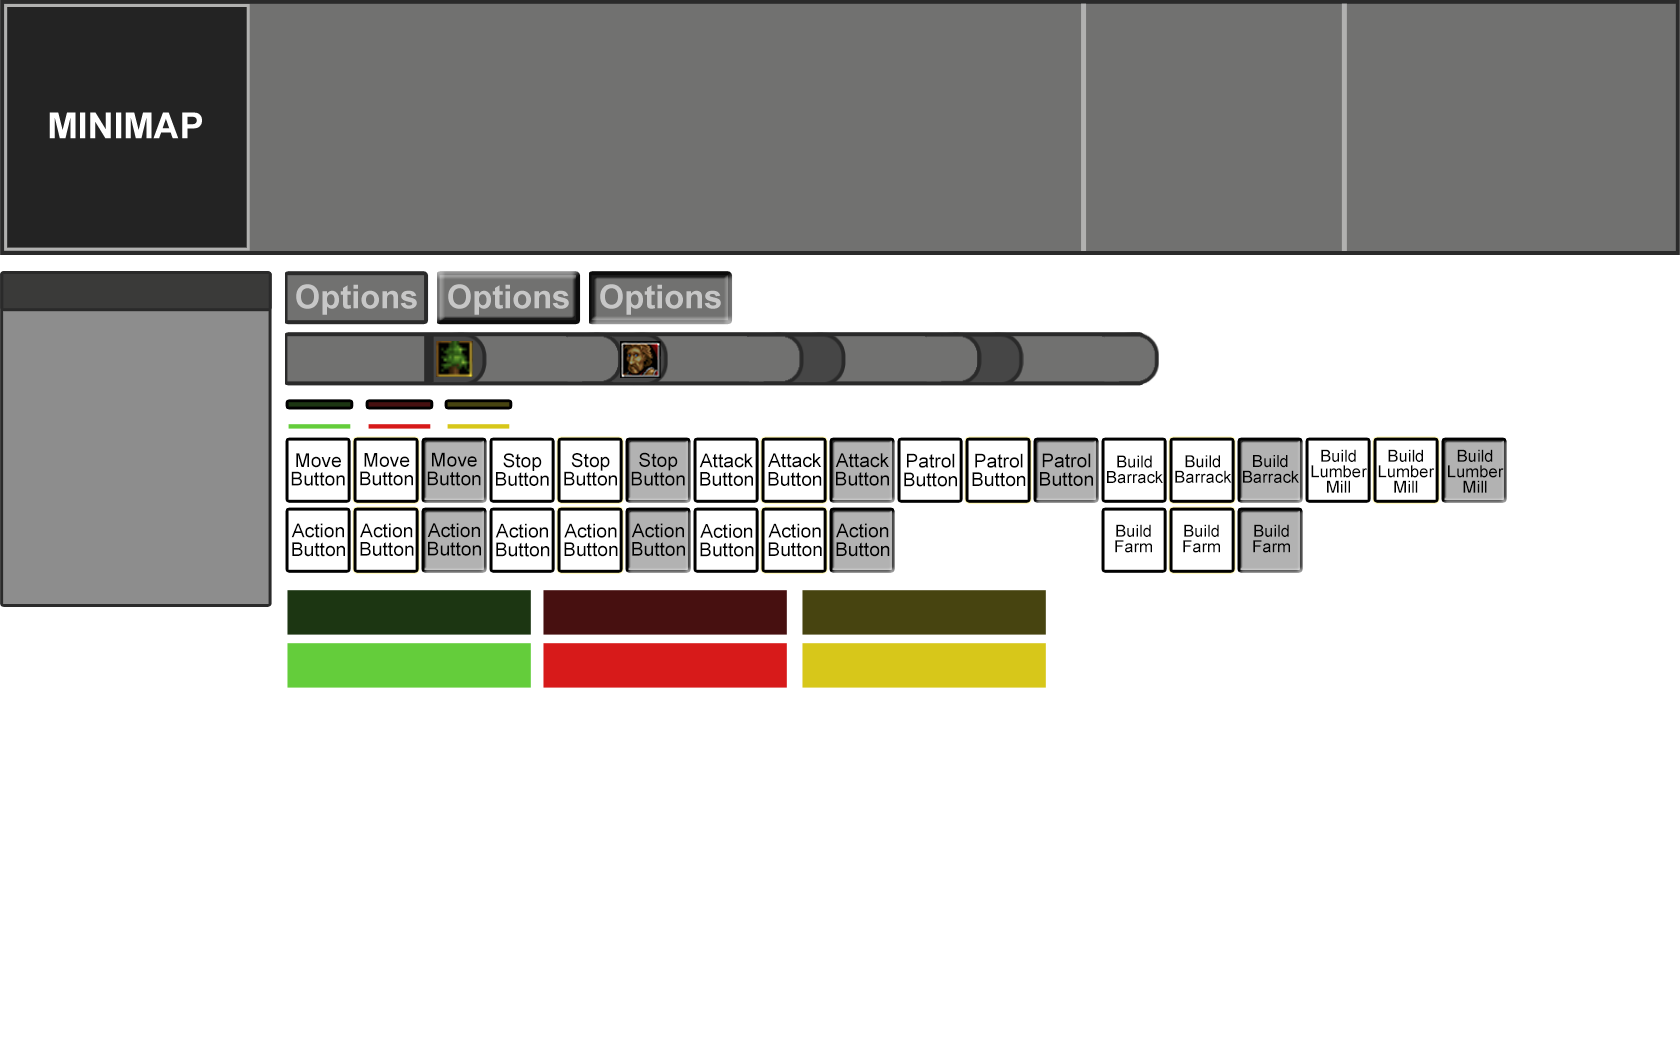
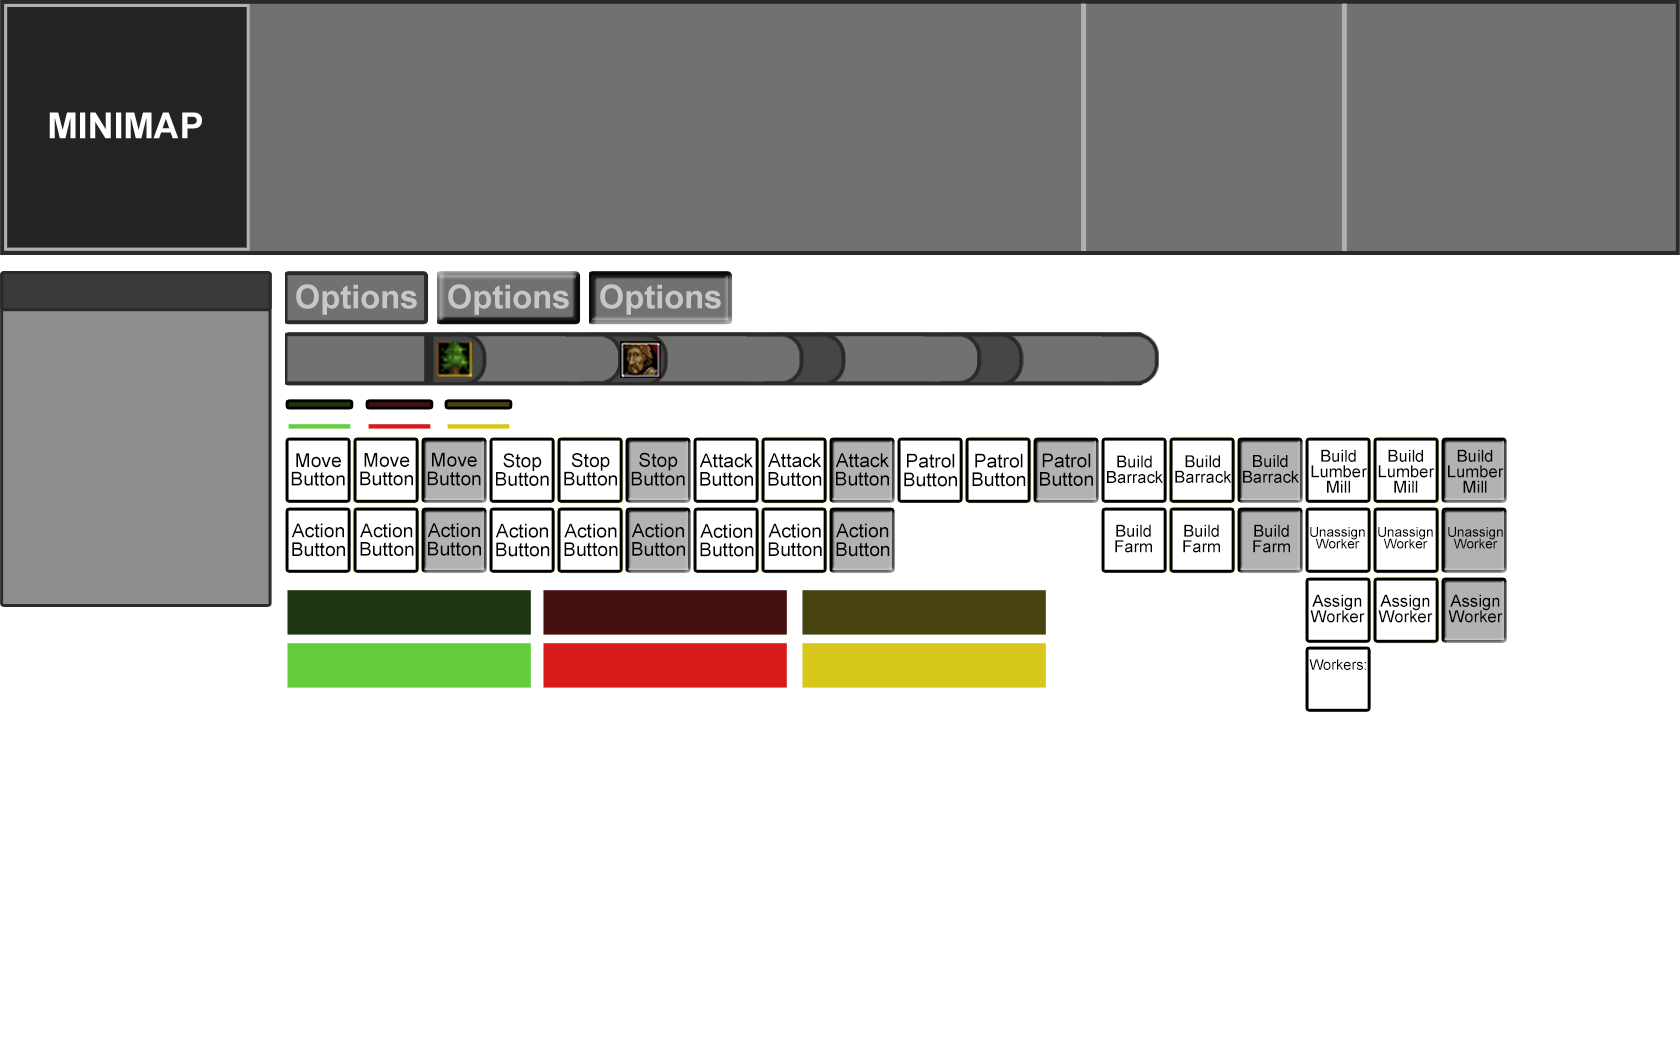
added workers funcionality. Resource requeriments wip

Changed region(s): [[0.7738, 0.4571, 0.8976, 0.64], [0.7738, 0.6705, 0.8048, 0.701]]

diff --git a/Motor2D/j1EntityController.cpp b/Motor2D/j1EntityController.cpp
@@ -23,6 +23,8 @@ j1EntityController::~j1EntityController() {}
 bool j1EntityController::Awake(pugi::xml_node &config)
 {
 	death_time = config.child("deathTime").attribute("value").as_int(0);
+	mill_max_villagers = config.child("millMaxVillagers").attribute("value").as_int(0);
+	worker_wood_production = config.child("workerWoodProduction").attribute("value").as_int(0);
 	return true;
 }
 
@@ -283,6 +285,51 @@ void j1EntityController::buildingProcessDraw()
 		}
 	}
 
+}
+
+void j1EntityController::HandleWorkerAssignment(bool to_assign, Building * building)
+{
+	if (building->type == LUMBER_MILL)
+	{
+		if (to_assign)
+		{
+			if (building->villagers_inside < mill_max_villagers && App->scene->workerAvalible())
+			{
+				building->villagers_inside += 1;
+				App->scene->inactive_workers -= 1;
+			}
+			else
+			{
+				//send sfx
+			}
+		}
+		else
+		{
+			if (building->villagers_inside > 0)
+			{
+				building->villagers_inside -= 1;
+				App->scene->inactive_workers += 1;
+			}
+		}
+	}
+}
+
+bool j1EntityController::CheckCostBuiding(buildingType target)
+{
+	bool ret = false;
+
+		if (App->scene->wood >= buildingDB[target]->wood_cost && App->scene->gold >= buildingDB[target]->gold_cost)
+		{
+			ret = true;
+		}
+
+	return ret;
+}
+
+void j1EntityController::HandleBuildingResources(buildingType target)
+{
+	App->scene->wood -= buildingDB[target]->wood_cost;
+	App->scene->gold -= buildingDB[target]->gold_cost;
 }
 
 Entity* j1EntityController::CheckMouseHover(iPoint mouse_world)

diff --git a/Motor2D/Building.cpp b/Motor2D/Building.cpp
@@ -19,6 +19,8 @@ Building::Building(iPoint pos, Building& building)
 	position.x = pos.x, position.y	= pos.y;
 	size.x = building.size.x;
 	size.y = building.size.y;
+	additional_size.x = building.additional_size.x;
+	additional_size.y = building.additional_size.y;
 
 	for (int i = 0; i < 9; i++)
 		available_actions[i] = building.available_actions[i];
@@ -61,6 +63,10 @@ bool Building::Update(float dt)
 		HandleDestruction();
 	}
 
+	if (!being_built && !destroyed && type == LUMBER_MILL)
+	{
+		HandleResourceProduction();
+	}
 	HandleSprite();
 	
 	return true;
@@ -113,6 +119,7 @@ void Building::HandleConstruction()
 			being_built = false;
 			last_frame_time = 0;
 			App->scene->inactive_workers += 1;
+			timer.Start();
 			if (type == FARM)
 			{
 				App->scene->workers += 5;
@@ -141,6 +148,15 @@ void Building::HandleDestruction()
 		App->map->WalkabilityArea(position.x, position.y, size.x, size.y,true);
 		
 		delete this;
+	}
+}
+
+void Building::HandleResourceProduction()
+{
+	if (timer.ReadSec() >= 5 && !App->map->WalkabilityArea(position.x - (additional_size.x * App->map->data.tile_width / 2) + collider.w / 2, (position.y - (additional_size.x * App->map->data.tile_width / 2)) + collider.h / 2, additional_size.x, additional_size.y, false, true))
+	{
+		timer.Start();
+		App->scene->wood += 5*villagers_inside * App->entitycontroller->worker_wood_production;
 	}
 }
 

diff --git a/Motor2D/j1ActionsController.cpp b/Motor2D/j1ActionsController.cpp
@@ -34,7 +34,7 @@ bool j1ActionsController::Update(float dt)
 			}
 			break;
 		case BUILD_BARRACKS:
-			if (doingAction && !App->entitycontroller->building && App->scene->workerAvalible() && App->scene->workerAvalible())
+			if (doingAction && !App->entitycontroller->building && App->scene->workerAvalible())
 			{
 				App->entitycontroller->structure_beingbuilt = BARRACKS;
 				App->entitycontroller->building = true;
@@ -48,6 +48,7 @@ bool j1ActionsController::Update(float dt)
 				App->entitycontroller->building = true;
 				App->scene->inactive_workers -= 1;
 			}
+			break;
 		case BUILD_FARM:
 			if (doingAction && !App->entitycontroller->building && App->scene->workerAvalible())
 			{
@@ -55,6 +56,14 @@ bool j1ActionsController::Update(float dt)
 				App->entitycontroller->building = true;
 				App->scene->inactive_workers -= 1;
 			}
+			break;
+		case UNASSIGN_WORKER:
+			App->entitycontroller->HandleWorkerAssignment(false, (Building*)*App->entitycontroller->selected_entities.begin());
+			doingAction = false;
+			break;
+		case ASSIGN_WORKER:
+			App->entitycontroller->HandleWorkerAssignment(true, (Building*)*App->entitycontroller->selected_entities.begin());
+			doingAction = false;
 			break;
 		}
 		

diff --git a/Motor2D/j1EntityController.h b/Motor2D/j1EntityController.h
@@ -45,6 +45,9 @@ public:
 
 	void placingBuilding(buildingType type, iPoint position);
 	void buildingProcessDraw();
+	void HandleWorkerAssignment(bool to_assign, Building* building);
+	bool CheckCostBuiding(buildingType target);
+	void HandleBuildingResources(buildingType target);
 
 	Entity* CheckMouseHover(iPoint mouse_world);
 
@@ -71,6 +74,8 @@ public:
 	bool debug = false;
 	bool building = false;
 	int death_time = 0;
+	int mill_max_villagers = 0;
+	int worker_wood_production = 0;
 	
 	buildingType structure_beingbuilt = NONE_BUILDING;
 	SDL_Rect selection_rect = { 0,0,0,0 };

diff --git a/Motor2D/j1Scene.cpp b/Motor2D/j1Scene.cpp
@@ -25,6 +25,7 @@ bool j1Scene::Awake(pugi::xml_node& config)
 {
 	LOG("Loading Scene");
 	wood = config.child("starting_resources").child("wood").attribute("value").as_int(0);
+	gold = config.child("starting_resources").child("gold").attribute("value").as_int(0);
 	workers = config.child("starting_resources").child("workers").attribute("value").as_int(0);
 	inactive_workers = workers;
 	town_hall_lvl = config.child("starting_resources").child("townHallLvl").attribute("value").as_int(0);

diff --git a/Motor2D/j1UIScene.cpp b/Motor2D/j1UIScene.cpp
@@ -159,6 +159,12 @@ bool j1UIScene::OnUIEvent(UI_element* element, event_type event_type)
 		case BUILD_FARM_FUNCTION:
 			App->actionscontroller->activateAction(BUILD_FARM);
 			break;
+		case UNASSIGN_WORKER_FUNCTION:
+			App->actionscontroller->activateAction(UNASSIGN_WORKER);
+			break;
+		case ASSIGN_WORKER_FUNCTION:
+			App->actionscontroller->activateAction(ASSIGN_WORKER);
+			break;
 		}
 	}
 	else if (event_type == MOUSE_RIGHT_CLICK)

diff --git a/Motor2D/Building.h b/Motor2D/Building.h
@@ -33,6 +33,7 @@ public:
 	bool being_built = false;
 	bool destroyed = false;
 	int villagers_inside = 0;
+
 	j1Timer timer;
 	int last_frame_time = 0;
 
@@ -50,6 +51,7 @@ public:
 	void HandleSprite();
 	void HandleConstruction();
 	void HandleDestruction();
+	void HandleResourceProduction();
 	void Draw(float dt);
 };
 

diff --git a/Motor2D/UI_element.h b/Motor2D/UI_element.h
@@ -44,7 +44,9 @@ enum element_function
 	MOVE_FUNCTION,
 	BUILD_BARRACKS_FUNCTION,
 	BUILD_LUMBER_MILL_FUNCTION,
-	BUILD_FARM_FUNCTION
+	BUILD_FARM_FUNCTION,
+	UNASSIGN_WORKER_FUNCTION,
+	ASSIGN_WORKER_FUNCTION
 };
 
 enum element_state

diff --git a/Motor2D/j1ActionsController.h b/Motor2D/j1ActionsController.h
@@ -10,7 +10,9 @@ enum actionType
 	MOVE,
 	BUILD_BARRACKS,
 	BUILD_LUMBER_MILL,
-	BUILD_FARM
+	BUILD_FARM,
+	UNASSIGN_WORKER,
+	ASSIGN_WORKER
 };
 
 class j1ActionsController : public j1Module

diff --git a/Motor2D/j1Scene.h b/Motor2D/j1Scene.h
@@ -42,6 +42,7 @@ public:
 	SDL_Texture* debug_tex = nullptr;
 
 	int wood = 0;
+	int gold = 0;
 	int workers = 0;
 	int inactive_workers = 0;
 	int town_hall_lvl = 0;
